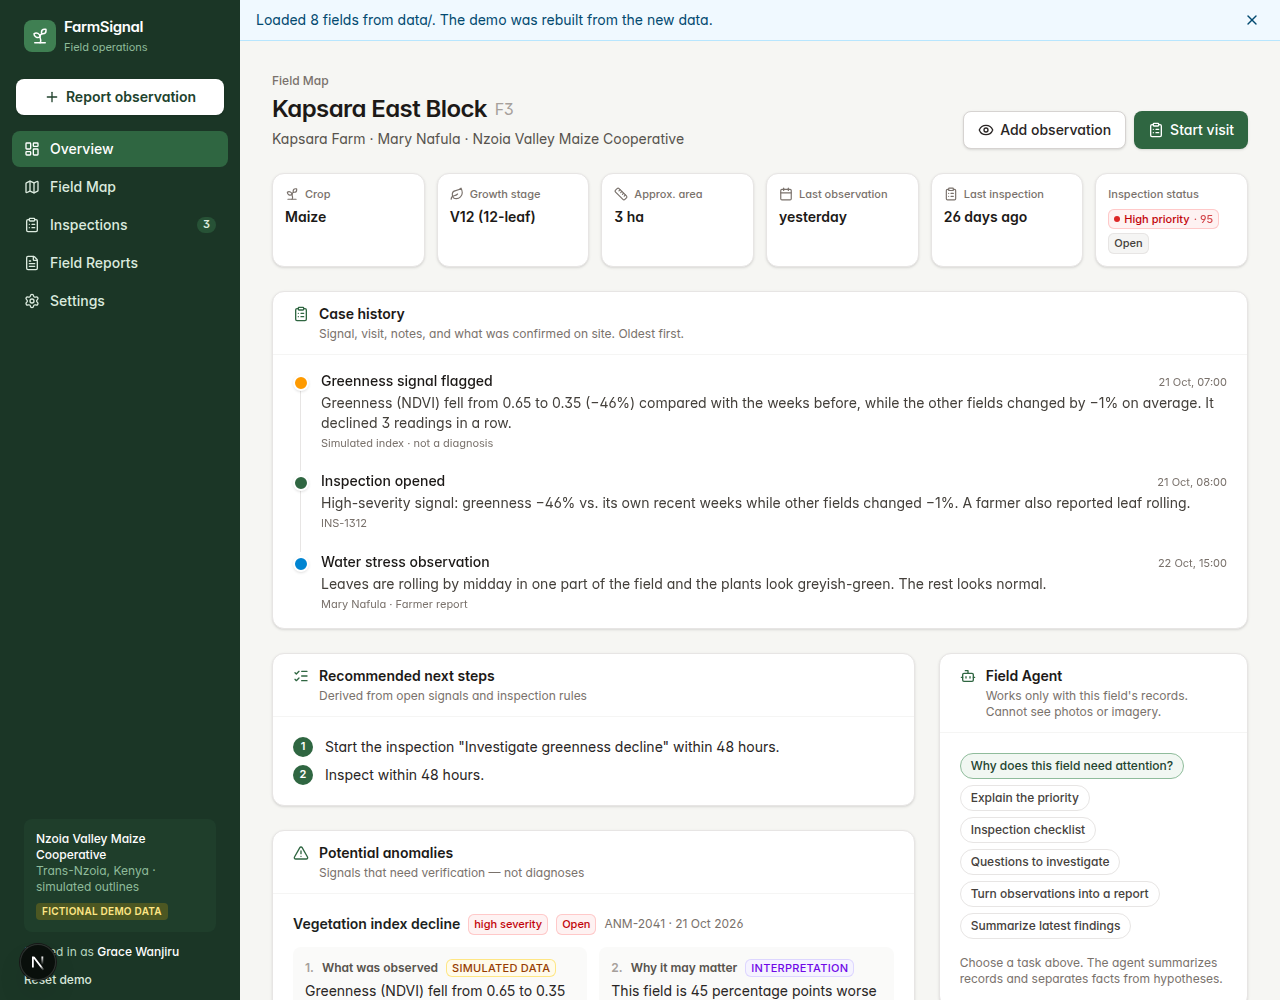
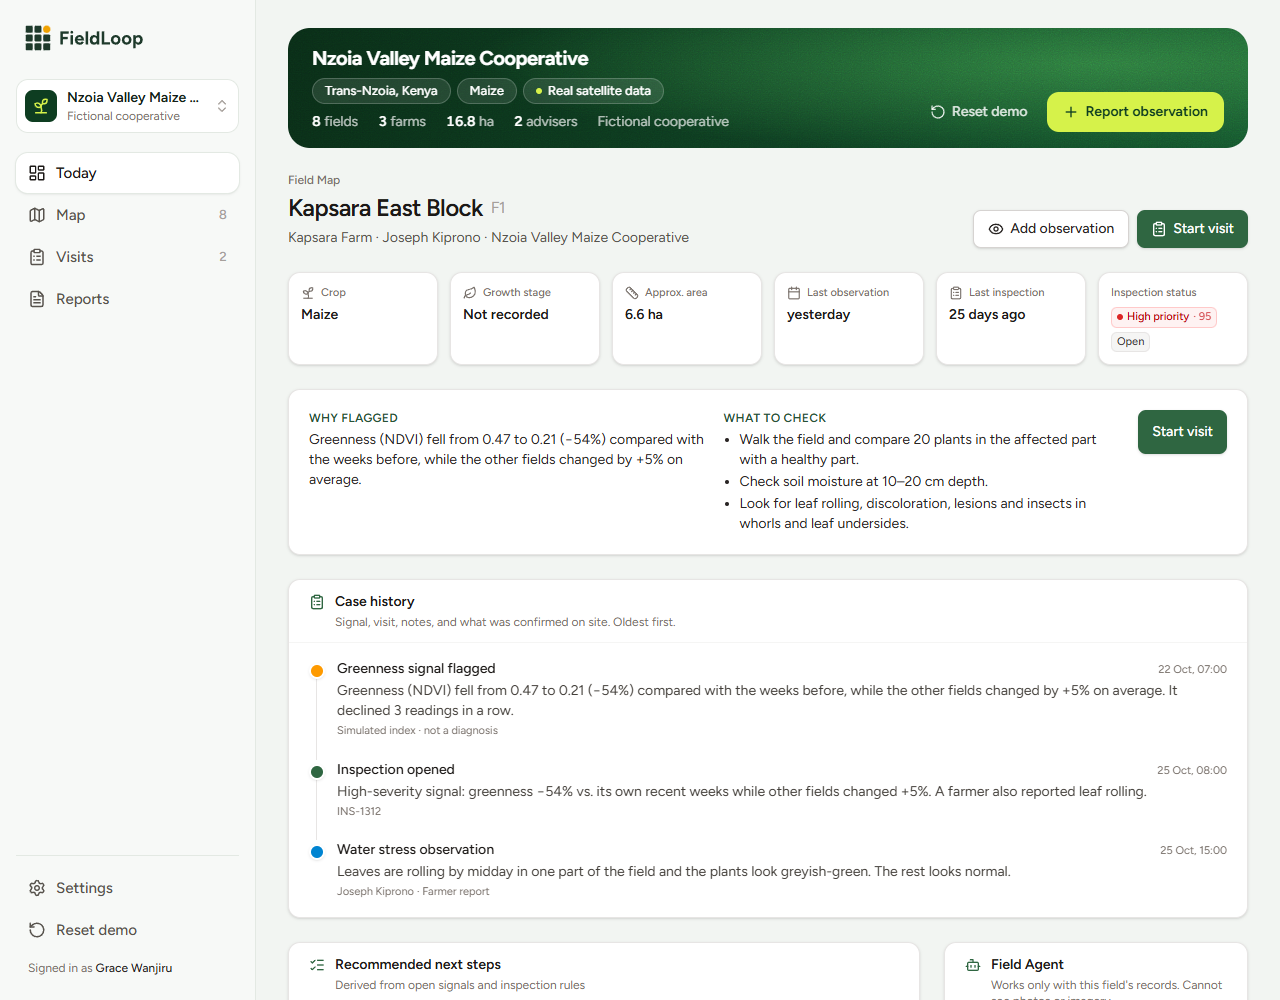
Update README and screenshots for the hackathon submission
Rename to FieldLoop, add an at-a-glance summary and an "AI in FieldLoop"
section, list the checks to run, and retake the screenshots with the new
name.

diff --git a/README.md b/README.md
@@ -1,50 +1,68 @@
-# FarmSignal
+# FieldLoop
 
 **From satellite alert to fixed field.**
 
-Built for the Polaris Global Hackathon (October 2026).
+FieldLoop is an AI field operations assistant for small farming cooperatives. It uses free satellite imagery and weather data to find fields that have changed, ranks them by urgency, and turns each alert into a concrete visit for a field adviser. The adviser reports back by voice note or photo, and FieldLoop tracks the case until it is resolved. Every alert ends with someone checking the plants: that is the loop in the name.
 
-Working on this? Start with [MVP.md](MVP.md) for the scope, the data file we share, and who builds what.
+Built for the Polaris Global Hackathon (October 2026) by Dominik Knitter and Ivan Ivanovic.
 
-FarmSignal is an AI field operations assistant for small farming cooperatives. It uses free satellite imagery and weather data to find fields that have changed, ranks them by urgency, and turns each alert into a concrete visit for a field advisor. The advisor reports back by voice note or photo, and FarmSignal tracks the case until it is resolved.
+![Today screen: first visit of the day, greenness change and the ranked visit list](docs/screenshots/overview-desktop.png)
+
+## At a glance
+
+- **Problem:** satellites can show that a field looks stressed, but a cooperative with hundreds of small plots and a few advisers still has to decide where to go first, what to look for, and make sure every alert is followed up.
+- **What we built:** a working web app that runs the whole loop: change detection on real Sentinel-2 data → a ranked visit queue → a phone-first visit screen → an AI that reads the adviser's notes → a re-ranked queue and a case history per field.
+- **Real data:** 8 real farm plots near Kitale, Kenya, with real Sentinel-2 greenness (NDVI) and real rainfall. One problem is planted and clearly labeled as simulated (details below).
+- **Honest by design:** a low greenness reading means "something changed here, go and look", never "this is the cause". Every simulated value is labeled in the app, and the AI never claims to have looked at a photo or diagnosed a disease.
 
 ## The problem
 
 Satellites can already tell a farmer that a field looks stressed. What they cannot do is walk to the field.
 
-A cooperative may look after hundreds of small plots with only a few advisors. The hard part is not seeing a red patch on a map. It is deciding which field to visit first, knowing what to look for once there, and making sure every alert ends with someone actually checking the plants. Today that follow-up often lives in spreadsheets, phone calls and memory.
+A cooperative may look after hundreds of small plots with only a few advisers. The hard part is not seeing a red patch on a map. It is deciding which field to visit first, knowing what to look for once there, and making sure every alert ends with someone actually checking the plants. Today that follow-up often lives in spreadsheets, phone calls and memory.
 
-## What FarmSignal does
+## What FieldLoop does
 
 1. **Spots changes.** Compares each field's satellite crop health (NDVI) against its own history and its neighbors, and combines it with recent weather.
 2. **Ranks the fields.** A transparent rule-based score produces a prioritized inspection queue: which field to visit first, why it was flagged, and how uncertain the signal is.
-3. **Plans the visit.** For each flagged field it suggests what the advisor should check on site, for example signs of water stress versus pests.
-4. **Closes the loop.** The advisor records notes (typed or dictated), photos and confirmed findings. FarmSignal updates the field's status, re-ranks the queue and keeps a record of what was checked and what happened.
-5. **Field Agent.** An assistant embedded in each field and inspection summarizes why a field needs attention, builds checklists and questions, and turns observations into structured reports — always separating observed facts, confirmed findings and unverified hypotheses.
-
-FarmSignal never claims a diagnosis from a satellite image alone. A low vegetation reading means "something changed here, go and look", not "this is the cause".
+3. **Plans the visit.** For each flagged field it suggests what the adviser should check on site, for example signs of water stress versus pests.
+4. **Closes the loop.** The adviser records notes (typed or dictated), photos and confirmed findings. FieldLoop updates the field's status, re-ranks the queue and keeps a record of what was checked and what happened.
+5. **Field Agent.** An assistant embedded in each field and inspection summarizes why a field needs attention, builds checklists and questions, and turns observations into structured reports, always separating observed facts, confirmed findings and unverified hypotheses.
 
 ## Demo flow (3 minutes)
+
+Run the app (see [Run it locally](#run-it-locally)) and open http://localhost:3000.
 
 The app opens with **real data**: 8 real farm plots west of Kitale, Kenya, with real Sentinel-2 greenness and real rainfall. One problem is planted: the last 3 readings of **F1 (Kapsara East Block)** are lowered and labeled `simulated`, because real fields all dip together before harvest and nothing would stand out otherwise. 77 of 80 greenness readings are real. The cooperative, farmers, advisers and workflow history are fictional.
 
 1. **Setup quiz** (under a minute, skippable): role → region (Trans-Nzoia) → crops → tap your plots on the map → team size. The end screen shows *Real data (Kitale)* selected.
-2. **Today** — *First visit today*: Kapsara East Block with priority score 95 of 100; its greenness fell from 0.47 to 0.21 while the other fields rose, and a farmer reported a problem. Next to it, *Greenness change, last 3 weeks*: 75% of fields need no visit; one field is falling fast, seven are rising. Below, all fields ranked next to the map. Press **Start visit**.
-3. **Map → Greenness time-lapse** — press play: all fields fade in the dry weeks of September, recover after the October rains, and only Kapsara East Block keeps falling.
-4. **Field page** — *Why flagged* and *What to check* first; the full evidence opens on demand. The greenness chart marks the 3 simulated readings in orange, the rest are real Sentinel-2. Case history and Field Agent below.
-5. **Visit** (phone layout) — *Start visit* → tick checks → note (type or dictate) → photo → *Suggest an outcome* (AI reads the note) → edit → *Complete visit*. The suggestion only restates the note and does not look at the photo. Example note: *"Found larvae and fresh feeding damage in the whorls on 9 of 20 plants on the east side."* → suggested outcome *Issue confirmed, re-scout in 7 days*.
-6. **Back to Today** — a **Queue updated** banner: Kapsara East Block left the queue, Kapsara West Block is now #1.
+2. **Today:** *First visit today* is Kapsara East Block with priority score 95 of 100. Its greenness fell from 0.47 to 0.21 while the other fields rose, and a farmer reported a problem. Next to it, *Greenness change, last 3 weeks*: 75% of fields need no visit; one field is falling fast, seven are rising. Below, all fields are ranked next to the map. Press **Start visit**.
+3. **Map → Greenness time-lapse:** press play. All fields fade in the dry weeks of September and recover after the October rains; only Kapsara East Block keeps falling.
+4. **Field page:** *Why flagged* and *What to check* come first; the full evidence opens on demand. The greenness chart marks the 3 simulated readings in orange, the rest are real Sentinel-2. Case history and Field Agent are below.
+5. **Visit** (phone layout): *Start visit* → tick checks → note (type or dictate) → photo → *Suggest an outcome* (the AI reads the note) → edit → *Complete visit*. The suggestion only restates the note and does not look at the photo. Example note: *"Found larvae and fresh feeding damage in the whorls on 9 of 20 plants on the east side."* → suggested outcome *Issue confirmed, re-scout in 7 days*.
+6. **Back to Today:** a **Queue updated** banner shows that Kapsara East Block left the queue and Kapsara West Block is now #1.
 7. Optional: **Report observation** for another field → a new visit is created automatically.
 
-**Showcase mode** (optional): *Settings → Showcase data* switches to 40 simulated plots in 3 villages, built to show more cases (a problem that spreads, a dry-spell cluster, a harvest dry-down that is correctly *not* flagged, a field that recovered after a visit). Everything in it is simulated and labeled so.
+**Showcase mode** (optional): *Settings → Showcase data* switches to 40 simulated plots in 3 villages with 4 crops, built to show more cases: a problem that spreads, a dry-spell cluster, a harvest dry-down that is correctly *not* flagged, and a field that recovered after a visit. Everything in it is simulated and labeled so.
 
 *Reset demo* (sidebar, Settings) restores the scenario before each run. *Settings → Retake setup quiz* starts over.
 
-![Overview](docs/screenshots/overview-desktop.png)
+| Phone: Today | Phone: field visit |
+| --- | --- |
+| ![Today on a phone](docs/screenshots/overview-phone.png) | ![Visit screen on a phone](docs/screenshots/visit-phone.png) |
 
-![Phone visit](docs/screenshots/visit-phone.png)
+![Field page with why flagged, what to check and the case history](docs/screenshots/field-desktop.png)
 
-![Case history](docs/screenshots/field-desktop.png)
+## AI in FieldLoop
+
+| Where | What the AI does | What it never does |
+| --- | --- | --- |
+| **Suggest an outcome** (visit screen, `/api/process-report`) | Reads the adviser's notes and ticked checks, suggests an outcome (issue confirmed / no issue found / needs follow-up), summarizes the findings in the adviser's own words, lists which causes the notes support or rule out, and proposes a follow-up. | Add facts the adviser did not write, look at photos, or save anything without the adviser confirming. |
+| **Field Agent** (field and inspection pages, `/api/agent`) | Explains why a field needs attention, builds a visit checklist and questions, structures a report, and summarizes findings. Every answer is split into observed / confirmed / interpretation / hypothesis / action. | Diagnose a disease or pest from remote data, or invent measurements. |
+
+Both use Claude through the Anthropic API when `ANTHROPIC_API_KEY` is set. Without a key they run in a clearly labeled **demo mode**: transparent keyword rules for the report and deterministic summaries built only from the field's records. If the API call fails, the app falls back to demo mode instead of breaking.
+
+Change detection and the priority score are deliberately **not** AI: they are simple, documented rules so an adviser can see exactly why a field was ranked first (*Visits → open a visit → Priority breakdown*).
 
 ## Field data (shared with the data script)
 
@@ -91,11 +109,11 @@ Data side (`scripts/`, writes the files in `data/`):
 
 App side:
 
-- Next.js (App Router) + TypeScript + React
+- Next.js 15 (App Router) + TypeScript + React 19
 - Tailwind CSS v4, Lucide icons
 - Leaflet + OpenStreetMap tiles for the field map (SVG fallback if tiles or Leaflet are unavailable)
 - Next.js route handlers: `/api/field-data` (reads `data/`), `/api/agent` (Field Agent), `/api/process-report` (report analysis), `/api/weather` (optional live Open-Meteo)
-- Optional: Anthropic API (server-side only)
+- Optional: Anthropic API (server-side only; the key never reaches the browser)
 - Persistence: browser `localStorage` (prototype)
 
 ## Run it locally
@@ -107,16 +125,16 @@ cd Polaris-Hackathon---FarmSignal
 
 ### App
 
-Requires Node.js 20+.
+Requires Node.js 20 or newer.
 
 ```bash
 npm install
 npm run dev
 ```
 
-Open http://localhost:3000.
+Open http://localhost:3000. No API key is needed; the AI features then run in demo mode.
 
-Optional — real LLM for the Field Agent:
+Optional: use a real LLM for the AI features:
 
 ```bash
 cp .env.example .env.local
@@ -126,9 +144,13 @@ cp .env.example .env.local
 
 Never commit `.env.local` or real keys.
 
-Production build check: `npm run build && npm start`.
+Checks:
 
-Logic tests (change detection, data parsers, priority score, report analysis): `npm run test:logic`.
+```bash
+npm run typecheck    # TypeScript
+npm run test:logic   # 22 tests: change detection, data parsers, priority score, report analysis, briefing
+npm run build        # production build (then npm start)
+```
 
 ### Data scripts
 
@@ -148,47 +170,50 @@ The field outlines in `data/fields.geojson` were traced by hand and are not made
 
 ```
 src/
-  app/                    pages (App Router)
-    page.tsx              Overview dashboard
-    map/                  Field Map
-    fields/[id]/          Field details + anomaly assessment
-    inspections/          Prioritized queue + inspection workflow
+  app/                      pages (App Router)
+    page.tsx                Today: first visit, greenness change, ranked visits + map
+    map/                    Field Map + greenness time-lapse
+    fields/[id]/            Field page: why flagged, what to check, case history, evidence
+    inspections/            Visit queue + inspection details
     inspections/[id]/visit  Phone-first adviser visit screen
-    reports/              Field reports, new observation form
-    settings/             Current user, integrations, reset demo
-    api/agent/            Field Agent (LLM or demo mode)
-    api/weather/          Open-Meteo proxy
-    api/field-data/       Reads the data/ files
-  components/             UI components (map, agent, inputs, cards)
+    reports/                Inspection reports and observations; new observation form
+    settings/               Current user, data source, integrations, reset demo
+    api/field-data/         Reads the data/ files
+    api/agent/              Field Agent (LLM or demo mode)
+    api/process-report/     Reads the adviser's report (LLM or demo rules)
+    api/weather/            Open-Meteo proxy
+  components/               UI components (map, time-lapse, visit screen, agent, quiz, inputs)
   lib/
-    types.ts              Domain model (Farm, Field, Anomaly, InspectionTask, ...)
-    field-data.ts         Data contract types + CSV/GeoJSON parsers
-    builtin-field-data.ts Built-in simulated sample (used when data/ is empty)
-    detection.ts          Rule-based change detection (own history + neighbors)
-    demo-data.ts          Builds the app state from field data + fictional workflow history
-    store.ts              Data-access layer + actions (localStorage)
-    priority.ts           Documented rule-based priority score
-    selectors.ts          Derived views / dashboard stats
-    agent/                Agent context builder, demo agent, LLM client
-    services/             Live weather lookup (Open-Meteo)
-scripts/                  Data scripts (Python): satellite NDVI, rainfall, sample data
-data/                     The shared files the app reads
+    types.ts                Domain model (Farm, Field, Anomaly, InspectionTask, ...)
+    field-data.ts           Data contract types + CSV/GeoJSON parsers
+    builtin-field-data.ts   Showcase data (simulated), used when data/ is not available
+    detection.ts            Rule-based change detection (own history + neighbors)
+    priority.ts             Documented rule-based priority score
+    demo-data.ts            Builds the app state from field data + fictional workflow history
+    store.ts                Data-access layer + actions (localStorage)
+    selectors.ts            Derived views: queue, briefing, impact, time-lapse
+    onboarding.ts           Setup quiz options
+    agent/                  Field Agent context, demo agent, LLM client, report analysis
+    services/               Live weather lookup (Open-Meteo)
+scripts/                    Data scripts (Python): satellite NDVI, rainfall, sample data
+data/                       The shared files the app reads
+tests/                      Logic tests (npm run test:logic)
 ```
 
 To move to a real backend, keep the action signatures in `store.ts` and replace `load`/`persist` with API calls.
 
 ## Limitations
 
-- Sentinel-2 pixels cover about 10 by 10 meters. Very small or mixed-crop plots are hard to judge from space, so FarmSignal compares whole fields and changes over time rather than pinpointing individual sick patches.
+- Sentinel-2 pixels cover about 10 by 10 meters. Very small or mixed-crop plots are hard to judge from space, so FieldLoop compares whole fields and changes over time rather than pinpointing individual sick patches.
 - Clouds, especially in rainy seasons, can hide fields for days or weeks.
-- Data is stored in each browser's localStorage: it is not shared between devices or team members, is limited to ~5 MB (photos are downscaled), and is lost when site data is cleared.
+- Data is stored in each browser's localStorage: it is not shared between devices or team members, is limited to about 5 MB (photos are downscaled), and is lost when site data is cleared.
 - There is no login; the "current user" is chosen in Settings.
 - Voice dictation depends on browser support (not available in Firefox).
-- This is a 72-hour prototype. It has not been tested with real farmers or advisors, and its recommendations are not agronomic advice.
+- This is a 72-hour prototype. It has not been tested with real farmers or advisers, and its recommendations are not agronomic advice.
 
 ## How this relates to existing tools
 
-Satellite crop monitoring and farm advice already exist: EOSDA Crop Monitoring (change alerts, a field leaderboard, scouting reports), OneSoil (free NDVI maps that flag problem spots), Farmonaut (WhatsApp-based satellite reports for smallholders), Cropin and Farmforce (field-team and outgrower management), Plantix (photo diagnosis) and Digital Green's FarmerChat (voice and WhatsApp advice). We are not trying to build a better map or a better chatbot. FarmSignal focuses on the workflow after the alert for a cooperative with few advisers: which field to visit first and why, what to check, an AI that reads the adviser's report, and tracking each case to resolution. See [docs/COMPETITOR_RESEARCH.md](docs/COMPETITOR_RESEARCH.md). We have only reviewed these products' public websites, so some of their features may go further than we describe.
+Satellite crop monitoring and farm advice already exist: EOSDA Crop Monitoring (change alerts, a field leaderboard, scouting reports), OneSoil (free NDVI maps that flag problem spots), Farmonaut (WhatsApp-based satellite reports for smallholders), Cropin and Farmforce (field-team and outgrower management), Plantix (photo diagnosis) and Digital Green's FarmerChat (voice and WhatsApp advice). We are not trying to build a better map or a better chatbot. FieldLoop focuses on the workflow after the alert for a cooperative with few advisers: which field to visit first and why, what to check, an AI that reads the adviser's report, and tracking each case to resolution. See [docs/COMPETITOR_RESEARCH.md](docs/COMPETITOR_RESEARCH.md). We have only reviewed these products' public websites, so some of their features may go further than we describe.
 
 ## Roadmap
 
@@ -196,9 +221,9 @@ Ideas beyond the hackathon, not built yet:
 
 - Automatic weekly data refresh instead of running the scripts by hand
 - Shared database and accounts for teams
-- Offline use for advisors with weak internet
+- Offline use for advisers with weak internet
 - Support for more crops and regions
-- Advisor-friendly voice input in local languages
+- Adviser-friendly voice input in local languages
 - Tracking whether an intervention actually improved the field
 - Testing with a real cooperative to validate the workflow
 
